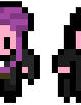
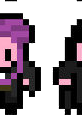
Replace broken Dobby crop with Draco on loader.

diff --git a/index.html b/index.html
@@ -51,7 +51,7 @@
             <img class="loader-hp loader-hp--3" src="images/hp-hermione.png" alt="" decoding="async" loading="eager">
             <img class="loader-hp loader-hp--4" src="images/hp-dumbledore.png" alt="" decoding="async" loading="eager">
             <img class="loader-hp loader-hp--5" src="images/hp-snape.png" alt="" decoding="async" loading="eager">
-            <img class="loader-hp loader-hp--6" src="images/hp-dobby.png" alt="" decoding="async" loading="eager">
+            <img class="loader-hp loader-hp--6" src="images/hp-draco.png" alt="" decoding="async" loading="eager">
         </div>
 
         <div class="loader-inner">

diff --git a/scripts/extract-hp-spritesheet.js b/scripts/extract-hp-spritesheet.js
@@ -16,7 +16,7 @@ const PICKS = [
     { file: "hp-hermione.png", left: 172, top: 6, width: 82, height: 112 },
     { file: "hp-dumbledore.png", left: 8, top: 232, width: 82, height: 118 },
     { file: "hp-snape.png", left: 90, top: 232, width: 82, height: 118 },
-    { file: "hp-dobby.png", left: 758, top: 698, width: 98, height: 125 }
+    { file: "hp-draco.png", left: 342, top: 232, width: 82, height: 118 }
 ]
 
 function stripBackground(data) {